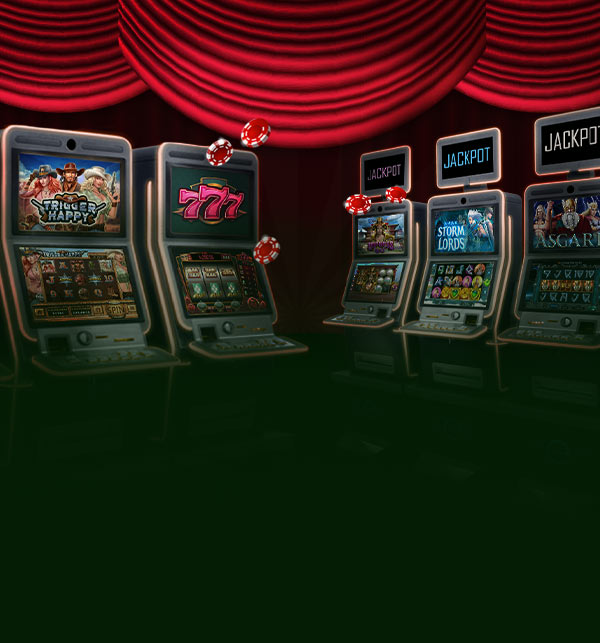
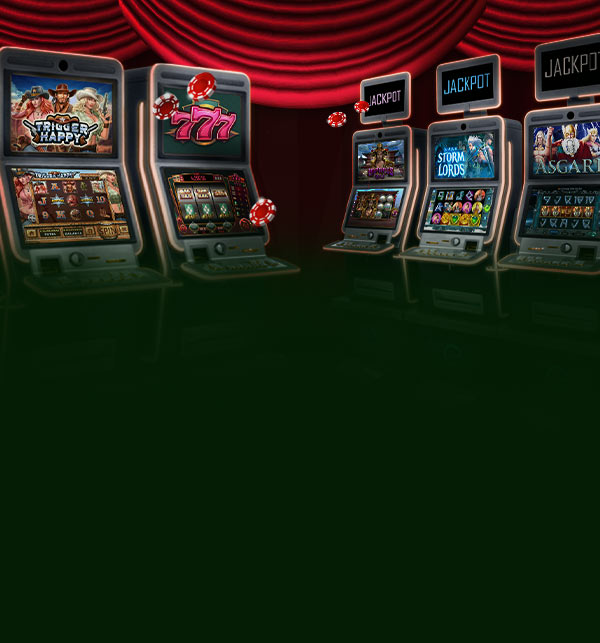
remarks

diff --git a/index.html b/index.html
@@ -28,10 +28,10 @@
                     </div>
 
                     <div class="login-register-container">
-                        <a href="#">
+                        <a href="https://www.vegasstripcasino.com/?login">
                             <button class="login-button bold">LOGIN</button>
                         </a>
-                        <a href="#">
+                        <a href="https://www.vegasstripcasino.com/signup/">
                             <button class="register-button bold">REGISTER</button>
                         </a>
                     </div>
@@ -53,7 +53,7 @@
                     </div>
                     <!-- coupon end -->
 
-                    <a href="#">
+                    <a href="https://www.vegasstripcasino.com/signup/?bonuscode=SLOTS777">
                         <div class="start">
                             <img src="img/1-btn.png" alt="GET STARTED">
                         </div>

diff --git a/css/style.css b/css/style.css
@@ -99,7 +99,7 @@
 body {
   position: relative;
   margin: 0;
-  padding: 0;
+  padding: 0 0 120px 0;
   font-family: 'Roboto', Arial, Helvetica, sans-serif;
   background-color: #041d04;
   color: #fff;
@@ -206,7 +206,7 @@ header {
 .steps-block {
   display: flex;
   justify-content: space-between;
-  margin: 22px 0 12px 0;
+  margin: 22px 15px 12px;
 }
 .steps-item {
   display: flex;
@@ -243,7 +243,7 @@ header {
   display: flex;
   justify-content: space-around;
   margin: 0 auto;
-  padding: 30px 0 100px;
+  padding: 30px 20px 0;
   text-align: center;
   max-width: 1230px;
 }
